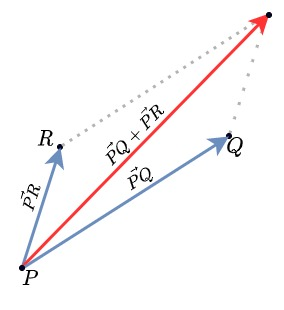
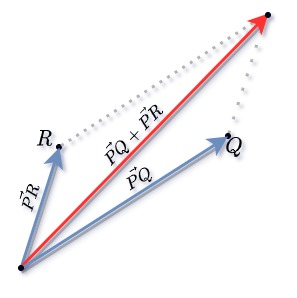
correções

diff --git a/_posts/2022-01-19-A-Matematica-Para-Eletromagnetismo.md b/_posts/2022-01-19-A-Matematica-Para-Eletromagnetismo.md
@@ -362,12 +362,14 @@ Olhe para os pássaros no céu. Os vetores são como o rastro de um pássaro no 
 
 Como os pássaros no céu, os vetores também podem se juntar, ou se afastar. A soma, a subtração, fazem parte do seu voo. Alguns podem achar útil imaginar isso, recorrendo a geometria, como um paralelogramo, uma forma com lados paralelos que mostra como um vetor soma ao outro.
 
-![Soma de Vetores com a Regra do Paralelogramo](/assets/images/SomaVetores.jpeg){:class="lazyimg"}
-<legend style="font-size: 1em;
-  text-align: center;
-  margin-bottom: 20px;">Figura 2 - Regra do Paralelogramo - Soma geométrica de Vetores.</legend>
+<div class="floatRight">
 
-Eu não vou lhe guiar em uma jornada pelo mundo das formas e linhas, não aqui, não agora. Mesmo assim, a amável leitora precisa lembrar que a geometria, silenciosa e imóvel, sempre estará lá, por baixo de tudo, o esqueleto do invisível que dá forma física do nosso universo.
+<img class="lazyimg" src="/assets/images/SomaVetores.jpeg" alt="Paralelogramo formado pelos vetores originais, suas translações no espaço e a representação do vetor soma.">
+
+<legend class="legenda">Figura 3 - Soma de vetores usando a regra do paralelogramo.</legend>
+</div>
+
+Eu não vou lhe guiar em uma jornada pelo mundo das formas e linhas, não aqui, não agora. Mesmo assim, a amável leitora precisa lembrar que a geometria, silenciosa e imóvel, sempre estará lá, por baixo de tudo, o esqueleto do invisível que dá forma física do nosso universo. A soma de vetores, pode ser visualizada em um espaço bidimensional, um plano. Neste caso, podemos transladar os vetores e formar um paralelogramo. A diagonal maior deste paralelogramo representa a soma dos vetores. A leitora precisa olhar esta soma com carinho e cuidado. Observe que quando encontramos a diagonal principal, encontramos também uma área. A área do paralelogramo.
 
 A matemática irascível, nos força a dizer que o espaço vetorial $\mathbf{V}$ é fechado em relação a soma de vetores. Forma direta de dizer que a soma de dois vetores do espaço $\mathbf{V}$ resulta em um vetor deste mesmo espaço. Fechamento é um conceito da álgebra, e determina quais operações binárias que aplicadas os elementos de um conjunto, resultam em elementos deste mesmo conjunto.
 
